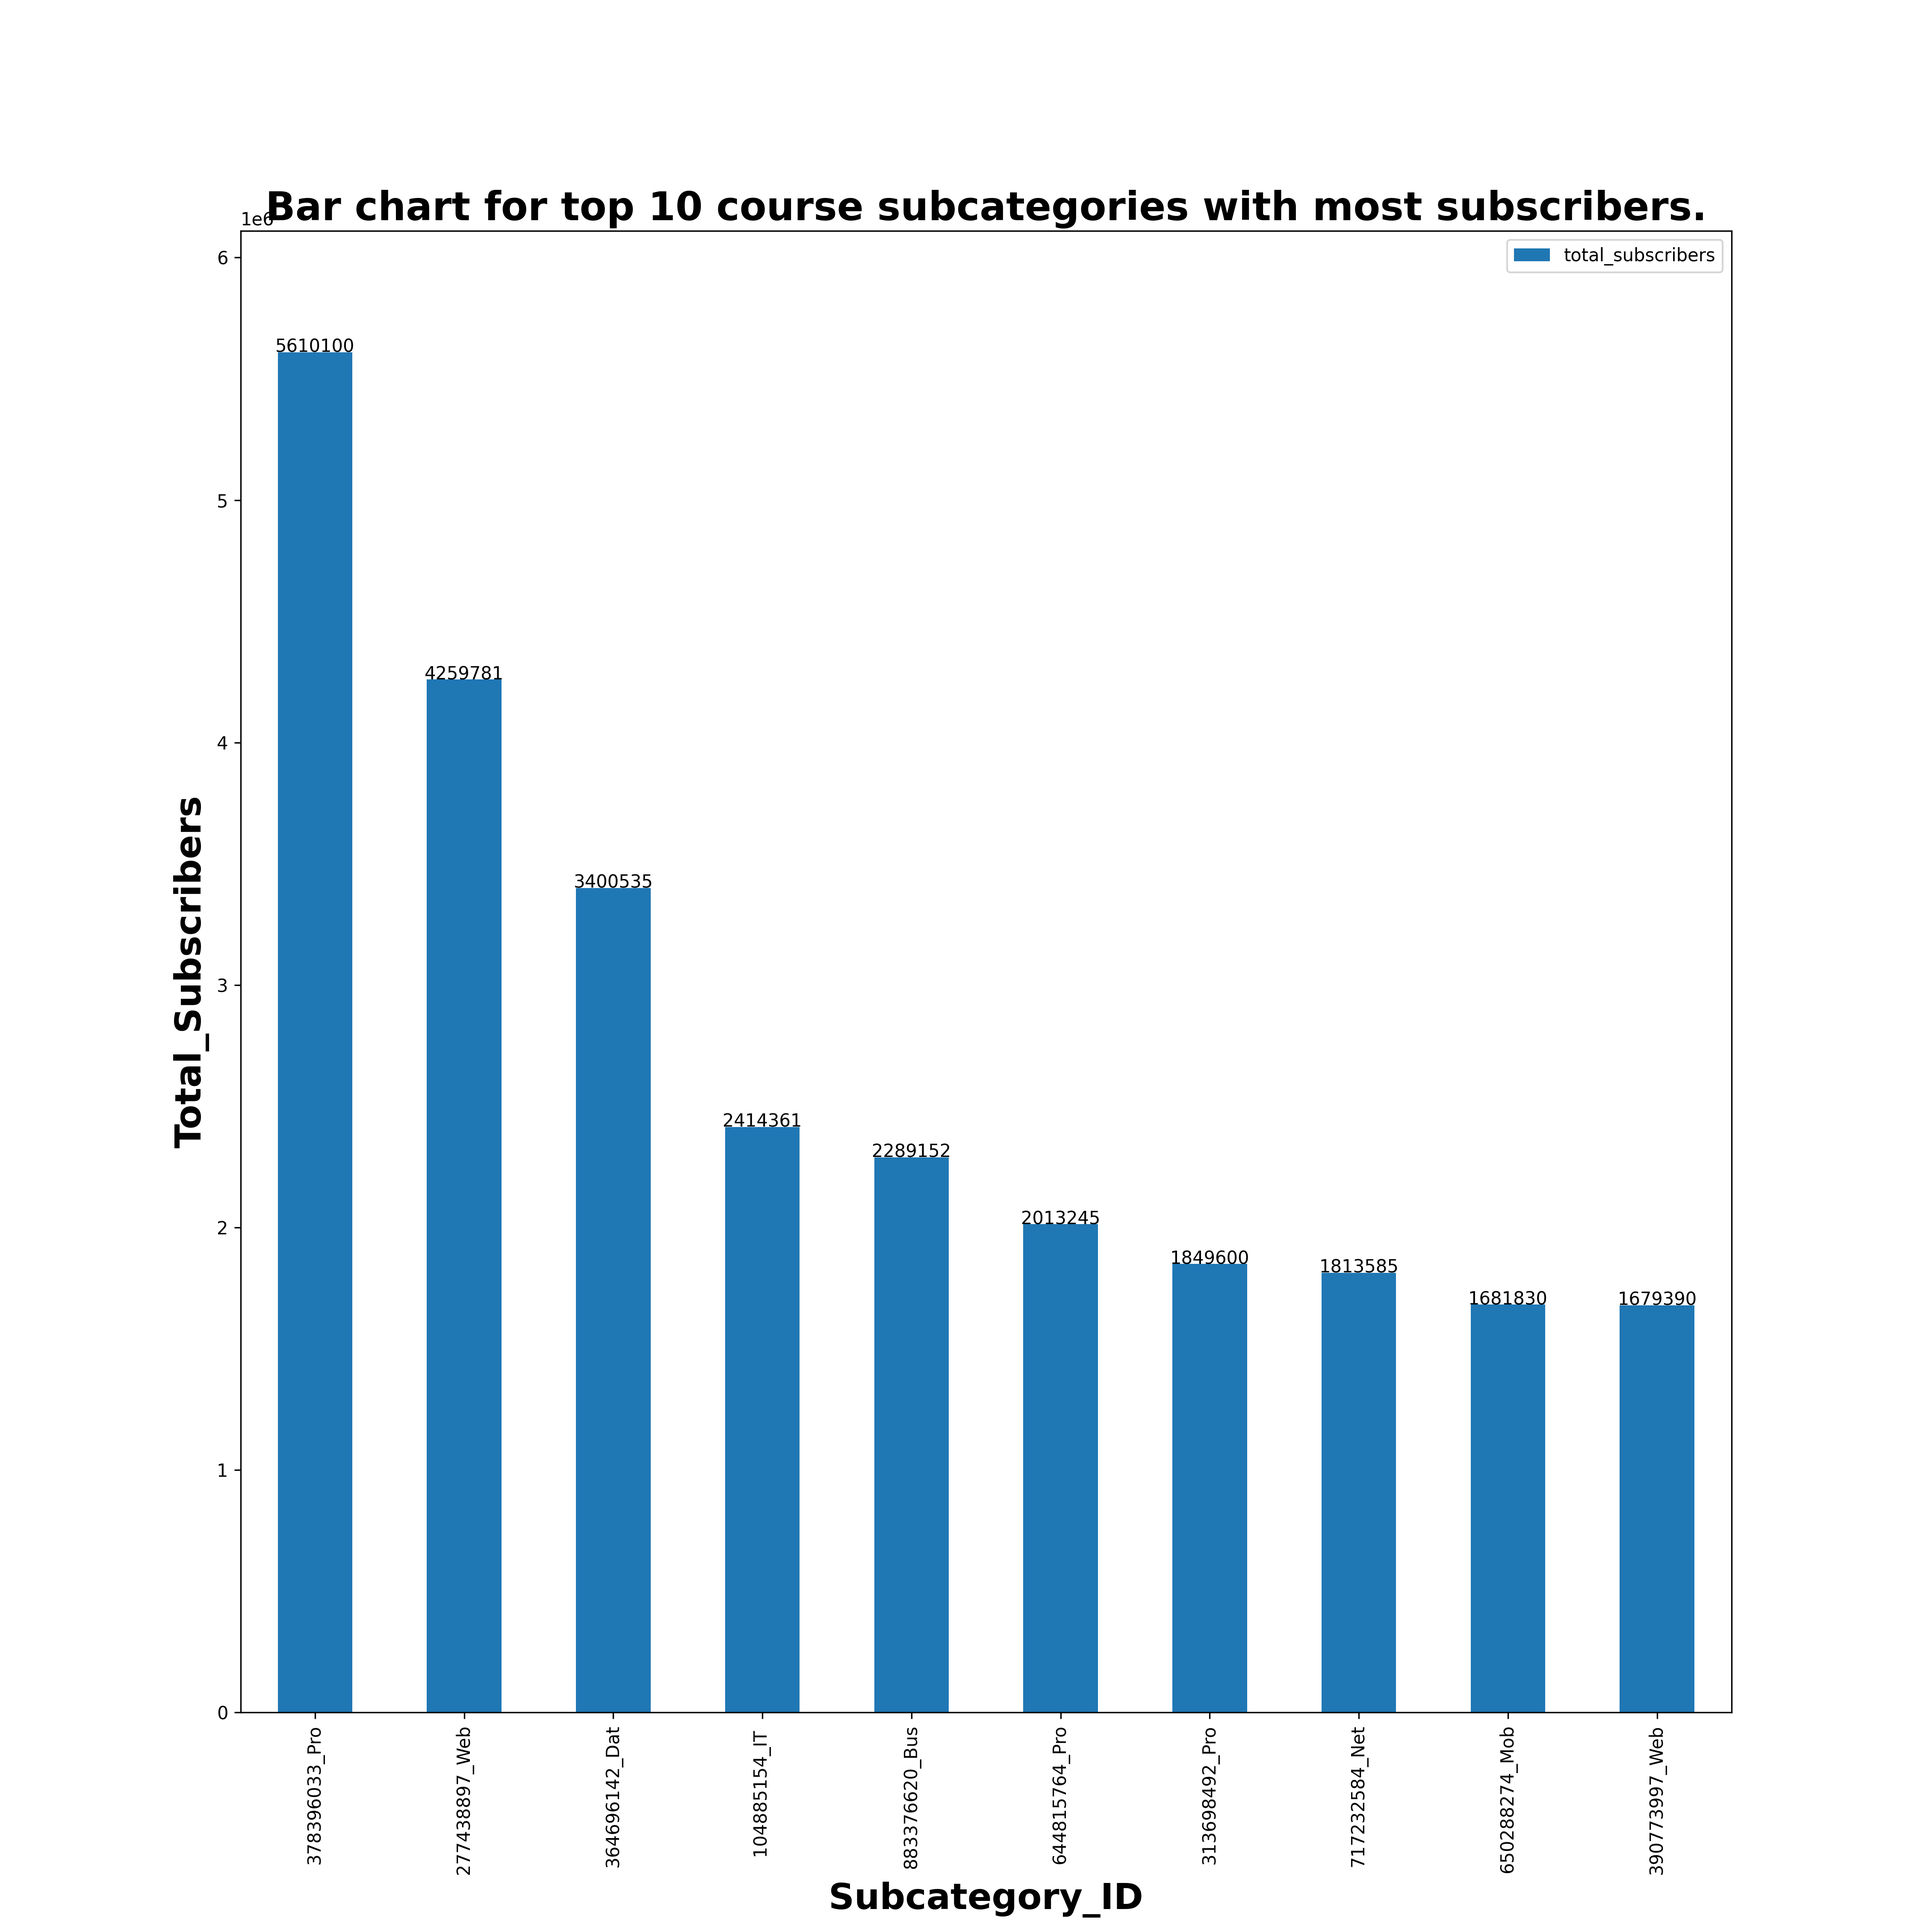
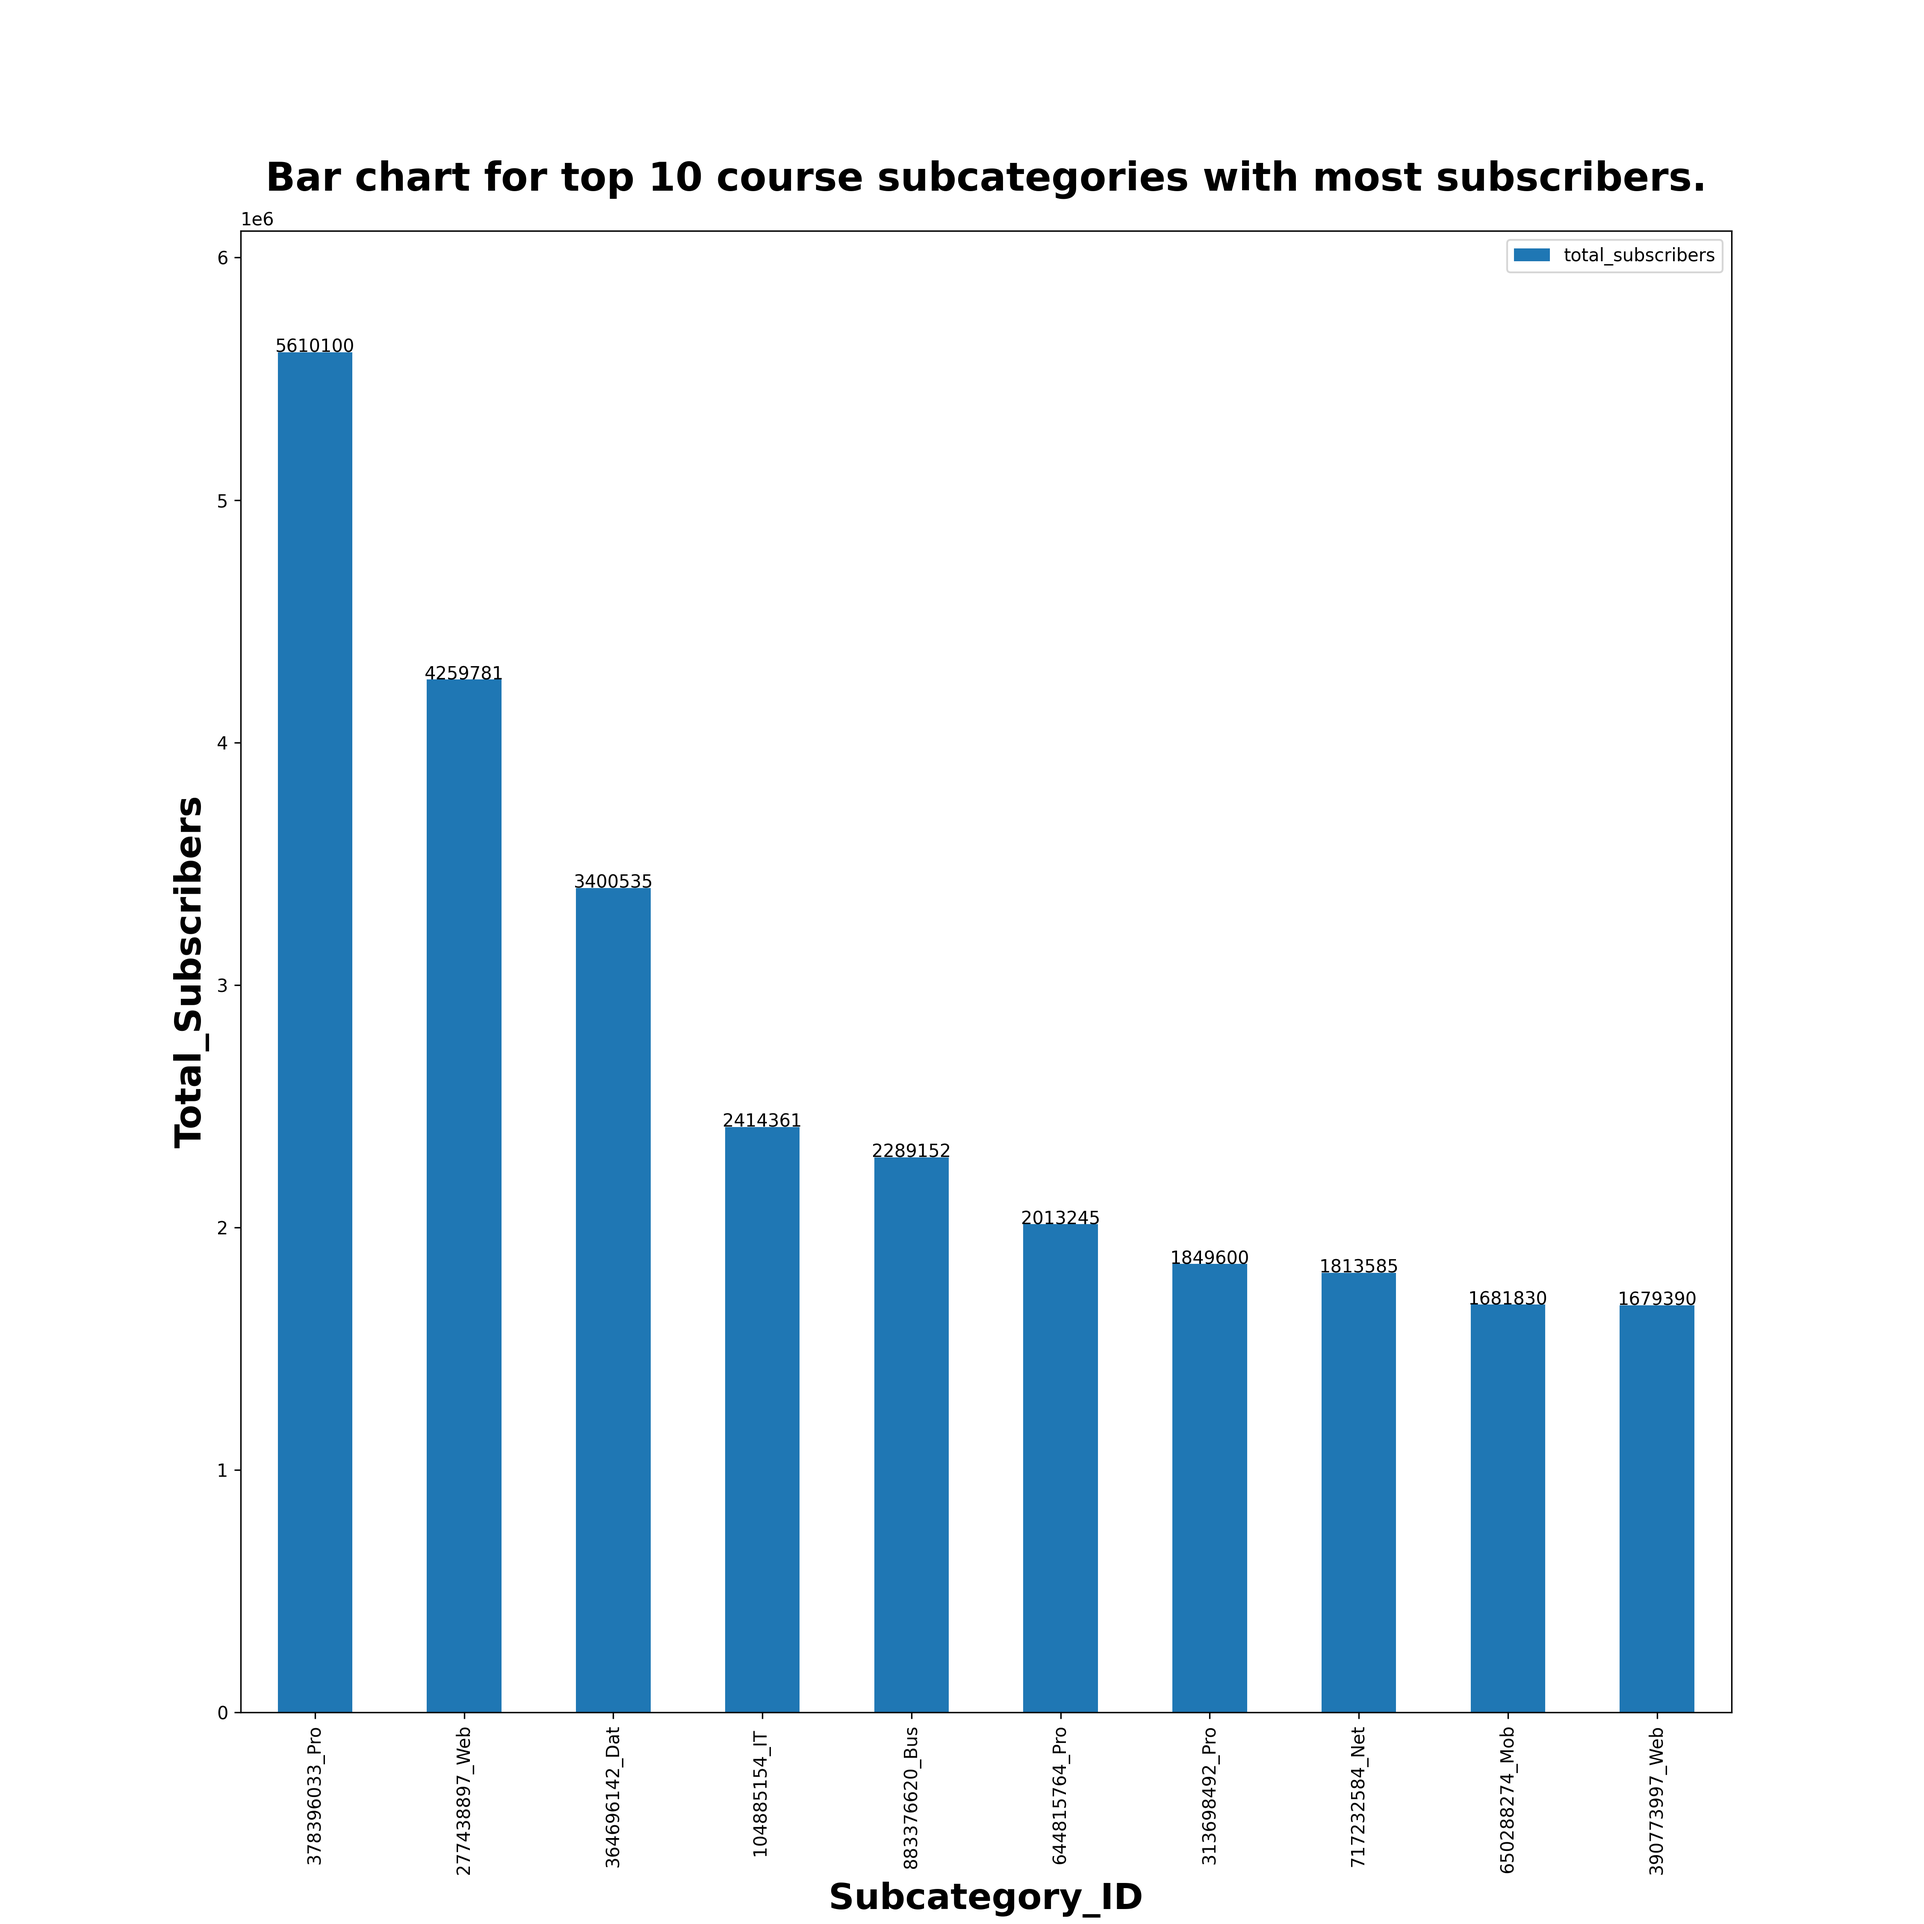
Completed task 1

Changed region(s): [[0.1244, 0.0622, 0.9022, 0.1244]]

diff --git a/Assessments/Assignment03/model/course.py b/Assessments/Assignment03/model/course.py
@@ -282,7 +282,7 @@ class Course:
                 df.plot(kind="bar", figsize=(15, 15), x="subcategory_id", y="total_subscribers")
                 plt.ylim(0, df["total_subscribers"].iloc[0] + 500000)
                 plt.title("Bar chart for top 10 course subcategories with most subscribers.", fontweight="bold",
-                          fontsize=22)
+                          fontsize=22, y= 1.02)
                 plt.xlabel("Subcategory_ID", fontweight="bold", fontsize=20)
                 plt.ylabel("Total_Subscribers", fontweight="bold", fontsize=20)
                 # Annotate values of the grid
@@ -316,7 +316,8 @@ class Course:
                 ten_courses = df.nsmallest(10, 'avg_rating')
                 ten_courses.plot(kind="bar", figsize=(15, 15), x="course_name", y="avg_rating")
                 plt.ylim(0, ten_courses["avg_rating"].iloc[0] + 5)
-                plt.title("Bar chart for top 10 courses with lowest avg review.", fontweight = "bold", fontsize=22)
+                plt.title("Bar chart for top 10 courses with lowest avg review.", fontweight = "bold", fontsize=22,
+                          y= 1.02)
                 plt.xlabel("Course Names", fontweight="bold", fontsize=20)
                 plt.ylabel("Average Rating", fontweight="bold", fontsize=20)
                 # Annotate values of the grid
@@ -333,16 +334,157 @@ class Course:
 
 
     def generate_course_figure3(self):
-        pass
+        try:
+            with open("./data/course.txt", "r+", encoding="utf-8") as course_file:
+                course_data = course_file.readlines()
+                avg_rating_list = []
+                subscribers_list = []
+                for each in course_data:
+                    temp_subscribers = int(each.split(";;;")[-3])
+                    if 10000 < temp_subscribers < 100000:
+                        subscribers_list.append(temp_subscribers)
+                        avg_rating_list.append(float((each.split(";;;")[-2])[:5]))
+
+                plt.figure(figsize= (15,15))
+                plt.scatter(avg_rating_list, subscribers_list, s= 100)
+                plt.xlabel("Average course ratings", fontweight = 'bold', fontsize = 20)
+                plt.ylabel("Number of Subscribers", fontweight = 'bold', fontsize = 20)
+                plt.title("Scatter chart to show all the course avg rating distribution and num of subscribers",
+                          fontweight = "bold", fontsize = 22, y= 1.02)
+                plt.savefig("static/img/course_figure3.png", dpi=300, format="png")
+                return "This scatter plot shows the negatively skewed distribution between course avg " \
+                       "rating and number of subscribers"
+
+        except:
+            print("Something went wrong while generating course figure 3")
+
+
 
     def generate_course_figure4(self):
-        pass
+        try:
+            with open("./data/course.txt", "r+", encoding="utf-8") as course_file:
+                course_data = course_file.readlines()
+                category_title = []
+                course_count = []
+                for each in course_data:
+                    category_title.append(each.split(";;;")[0])
+                category_title = list(dict.fromkeys(category_title))
+                for item in category_title:
+                    temp_list = []
+                    for each_item in course_data:
+                        temp_title = each_item.split(";;;")[0]
+                        if item == temp_title:
+                            temp_list.append(each_item.split(";;;")[5])
+                    course_count.append(temp_list)
+                for each_course in course_count:
+                    temp = each_course
+                    ind = course_count.index(each_course)
+                    course_count[ind] = len(temp)
+                df = pd.DataFrame({'category_title': category_title, 'no_of_courses': course_count})
+                sorted_df = df.sort_values(by= 'no_of_courses')
+                explode_list = []
+                for i in range(len(course_count)):
+                    if i == 39:
+                        explode_list.append(0.5)
+                    else:
+                        explode_list.append(0)
+                explode_num = tuple(explode_list)
+                plt.figure(figsize=(22,22))
+                plt.pie(sorted_df['no_of_courses'], labels= sorted_df['category_title'], explode= explode_num,
+                        shadow= True, autopct='%1.1f%%')
+                plt.axis('equal')
+                plt.title("Pie chart to show the number of courses for all categories,"
+                          " the second largest number of course is exploded",
+                          fontweight="bold", fontsize=22, y=1.02)
+                plt.xlabel("Total categories are " + str(len(category_title)) + " and total courses are " +\
+                       str(len(course_data)), fontweight="bold", fontsize=18)
+                plt.savefig("static/img/course_figure4.png", dpi=300, format="png")
+
+                return "Total categories are " + str(len(category_title)) + " and total courses are " +\
+                       str(len(course_data)) + ". The category with second largest number of courses is " +\
+                       str(sorted_df['category_title'].iloc[39]) + " which has " + \
+                       str(sorted_df['no_of_courses'].iloc[39]) + " courses."
+
+        except:
+            print("Something went wrong while generating course figure 4.")
+
 
     def generate_course_figure5(self):
-        pass
+        try:
+            with open("./data/course.txt", "r+", encoding="utf-8") as course_file:
+                course_data = course_file.readlines()
+                course_with_reviews = []
+                for each in course_data:
+                    if int(each.split(";;;")[-1]) != 0:
+                        course_with_reviews.append(each)
+                course_details = [len(course_with_reviews), len(course_data) - len(course_with_reviews)]
+                print(course_details)
+                titles = ["course_with_reviews", "course_without_reviews"]
+                fig = plt.figure(figsize= (15, 15))
+                plt.bar(titles, course_details)
+                plt.xlabel("Courses", fontweight="bold", fontsize=20)
+                plt.ylabel("Number of courses", fontweight="bold", fontsize=20)
+                plt.title("Bar chart for courses with reviews and courses without reviews.", fontweight="bold",
+                          fontsize=22, y=1.02)
+                for i, data in enumerate(course_details):
+                    plt.text(i, data + 100, str(data), horizontalalignment="center", fontsize = 12)
+                plt.savefig("static/img/course_figure5.png", dpi=300, format="png")
+                return "Total number of courses are " + str(len(course_data)) + ". Courses with reviews are " +\
+                       str(course_details[0]) + " and courses without reviews are " + str(course_details[1]) + "."
+        except:
+            return "Something went wrong while generating course figure 5. Please check for course data files."
 
     def generate_course_figure6(self):
-        pass
+        try:
+            with open("./data/course.txt", "r+", encoding="utf-8") as course_file:
+                course_data = course_file.readlines()
+                subcategory_ids_list = []
+                subscribers_count_list = []
+                for each in course_data:
+                    sub_id = int(each.split(";;;")[1])
+                    subcategory_ids_list.append(sub_id)
+                subcategory_ids_list = list(dict.fromkeys(subcategory_ids_list))
+                for item in subcategory_ids_list:
+                    total_subscribers = 0
+                    for each_id in course_data:
+                        temp_sub_id = int(each_id.split(";;;")[1])
+                        if item == temp_sub_id:
+                            total_subscribers += int(each_id.split(";;;")[-3])
+
+                    subscribers_count_list.append(total_subscribers)
+                df = pd.DataFrame({"total_subscribers": subscribers_count_list,
+                                   "subcategory_id": subcategory_ids_list})
+                ten_courses = df.nsmallest(10, "total_subscribers")
+                print(ten_courses)
+                subscribers_count_list = ten_courses["total_subscribers"]
+                subcategory_ids_list = ten_courses['subcategory_id']
+                temp_list = []
+                for sub_id in subcategory_ids_list:
+                    for each in course_data:
+                        temp_id = int(each.split(";;;")[1])
+                        if int(sub_id) == temp_id:
+                            id_name = str(sub_id) + "_" + ((each.split(";;;")[2])[:3])
+                            temp_list.append(id_name)
+
+                sub_name_list = list(dict.fromkeys(temp_list))
+                df = pd.DataFrame({"total_subscribers": subscribers_count_list,
+                                   "subcategory_id": sub_name_list})
+                df.plot(kind="bar", figsize=(15, 15), x="subcategory_id", y="total_subscribers")
+                plt.ylim(0, df["total_subscribers"].iloc[0] + 100)
+                plt.title("Bar chart for top 10 course subcategories with least subscribers.", fontweight="bold",
+                          fontsize=22, y=1.02)
+                plt.xlabel("Subcategory_ID", fontweight="bold", fontsize=20)
+                plt.ylabel("Total_Subscribers", fontweight="bold", fontsize=20)
+                # Annotate values of the grid
+                for i, data in enumerate(df['total_subscribers'].tolist()):
+                    plt.text(i, data + 1, str(data), horizontalalignment="center")
+                plt.savefig("static/img/course_figure6.png", dpi=300, format="png")
+                result = "The subcategory with id " + (sub_name_list[0])[:-4] + \
+                         " has the least number of subscribers among others."
+                return result
+
+        except:
+            print("Something went wrong while generating course_figure6")
 
 course = Course()
 # course.clear_course_data()
@@ -352,4 +494,4 @@ course = Course()
 # course.delete_course_by_id(772137256)
 # course.get_course_by_course_id(872028607)
 # course.get_course_by_instructor_id(612742716)
-course.generate_course_figure2()
+# course.generate_course_figure6()
